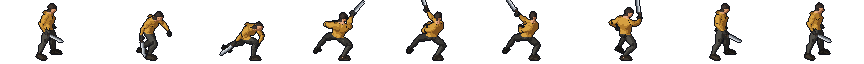
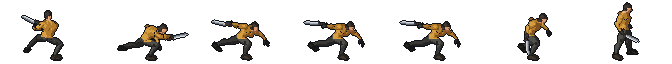
마체테 연타 리듬: 1·2타 빠르게, 3타 크게 올려 베기
- 연타 순서 변경: 1타 가로 베기(B), 2타 내지르기(C 앞부분), 3타 올려 베기(A)
- 1·2타 준비 동작을 잘라 0.32·0.34초, 피해 2 / 3타 0.66초, 피해 6, 밀어내기 320
- 무기 데이터에 heavy 표시 추가: 마무리 타는 공통 타격감 한 단계 위
- 렌더러가 끝을 생략한 프레임 구간(동작@4-)을 받도록
- look.json 맞는 칸 1·1·2로 갱신, 문서·개발일지 기록

diff --git a/src/weapon.py b/src/weapon.py
@@ -11,11 +11,12 @@ from math import cos, hypot, pi
 
 import pico2d
 
-Swing = namedtuple("Swing", "sheet duration contact damage reach depth arc push recover_from")
+Swing = namedtuple("Swing", "sheet duration contact damage reach depth arc push recover_from heavy")
 # sheet: animation sheet (character_look pose); duration and contact in seconds;
 # damage in hit points; reach and depth in px; arc in radians around the facing direction;
 # push: knockback speed in px/s; recover_from: progress where the swing's own recovery
-# starts, so a follow-up swing can cut in there instead of waiting for it.
+# starts, so a follow-up swing can cut in there instead of waiting for it; heavy: a big blow
+# (combo finisher) that lands one feel class harder (hit-stop, shake, number; see hit_feel).
 
 Weapon = namedtuple("Weapon", "name swings combo_window sneak_multiplier")
 # combo_window: seconds after a swing's recovery starts in which a click continues the combo.
@@ -23,9 +24,10 @@ Weapon = namedtuple("Weapon", "name swings combo_window sneak_multiplier")
 MACHETE = Weapon(
     name="마체테",
     swings=(
-        Swing("swing", 0.50, 0.24, 3, 42, 20, pi / 3, 150, 0.62),     # rising cut
-        Swing("swing2", 0.48, 0.20, 3, 44, 20, pi / 3, 150, 0.62),    # backhand sweep
-        Swing("swing3", 0.62, 0.22, 5, 48, 22, pi / 3, 260, 0.75),    # lunging finisher
+        # 1st and 2nd: quick, light blows; 3rd: the big rising cut with a real wind-up.
+        Swing("swing", 0.32, 0.10, 2, 42, 20, pi / 3, 110, 0.65, False),    # quick sweep
+        Swing("swing2", 0.34, 0.10, 2, 44, 20, pi / 3, 110, 0.65, False),   # quick thrust
+        Swing("swing3", 0.66, 0.26, 6, 50, 24, pi / 3, 320, 0.74, True),    # big rising cut
     ),
     combo_window=0.25,
     sneak_multiplier=3,

diff --git a/tools/blender/render_sprites.py b/tools/blender/render_sprites.py
@@ -234,6 +234,8 @@ def setup_render(scene, flat, painted=False, render_pass="color"):
 
 def frames_of(action, count, frame_range=None):
     start, end = frame_range or action.frame_range
+    if end is None:                                      # 'A@4-': from frame 4 to the end
+        end = action.frame_range[1]
     if count <= 1:
         return [int(start)]
     if frame_range is None and action.name.endswith("_Loop"):
@@ -363,7 +365,7 @@ def render_sheet(scene, armature, segments, out_dir, tmp_dir, sheet_name, args):
 
 
 def parse_segment(text):
-    """'Fixing_Kneeling@0-30' -> ('Fixing_Kneeling', (0, 30), None).
+    """'Fixing_Kneeling@0-30' -> ('Fixing_Kneeling', (0, 30), None); 'A@4-' runs to A's end.
     'Walk_Loop+Crouch_Fwd_Loop*0.4' -> ('Walk_Loop', None, ('Crouch_Fwd_Loop', 0.4))."""
     frame_range = None
     blend = None
@@ -374,7 +376,7 @@ def parse_segment(text):
     if "@" in text:
         text, span = text.split("@", 1)
         start, end = span.split("-")
-        frame_range = (float(start), float(end))
+        frame_range = (float(start), float(end) if end else None)
     return text, frame_range, blend
 
 

diff --git a/tools/blender/render_character.py b/tools/blender/render_character.py
@@ -32,9 +32,12 @@ PASSES = [
      ["--shift-for", "down=16"]),
     (LIB2,
      # Machete combo: A, B and C (A and B end with their recovery, used when the combo stops).
-     ["swing=Sword_Regular_A,Sword_Regular_A_Rec@7-23", "swing2=Sword_Regular_B,Sword_Regular_B_Rec",
-      "swing3=Sword_Regular_C"],
-     ["swing=6,3", "swing2=6,3", "swing3=9"],
+     # Machete combo (user order 2026-11-12): 1st a quick sweep (B, wind-up cut off), 2nd a
+     # quick thrust (the front of C, its end as the recovery), 3rd the big rising cut (A from its
+     # crouch on: the standing first frames read as a pause between hits).
+     ["swing=Sword_Regular_B@2-13,Sword_Regular_B_Rec", "swing2=Sword_Regular_C@0-18,Sword_Regular_C@30-48",
+      "swing3=Sword_Regular_A@4-,Sword_Regular_A_Rec@7-23"],
+     ["swing=4,3", "swing2=4,3", "swing3=6,3"],
      []),
 ]
 

diff --git a/src/hit_feel.py b/src/hit_feel.py
@@ -28,14 +28,17 @@ FEELS = {
 }
 
 
-def weight(damage, target_max_hp, critical=False, finishing=False):
-    """Weight class of one hit: critical and finishing blows always land the hardest."""
+def weight(damage, target_max_hp, critical=False, finishing=False, heavy=False):
+    """Weight class of one hit: critical and finishing blows always land the hardest;
+    a heavy blow (a combo finisher, any weapon) lands one class above its damage share."""
     if critical or finishing:
         return CRUSHING
     share = damage / max(1, target_max_hp)
     if share >= HEAVY_SHARE:
-        return HEAVY
-    return MEDIUM if share >= MEDIUM_SHARE else LIGHT
+        base = HEAVY
+    else:
+        base = MEDIUM if share >= MEDIUM_SHARE else LIGHT
+    return min(CRUSHING, base + heavy)
 
 
 def feel(hit_weight):

diff --git a/src/main.py b/src/main.py
@@ -215,7 +215,8 @@ def handle_player_events():
             sneak = player.swing.sneak
             damage = swing.damage * (player.weapon.sneak_multiplier if sneak else 1)
             zombie.hurt(damage, player.swing.dx, swing.push)
-            weight = hit_feel.weight(damage, zombie.max_hp, critical=sneak, finishing=not zombie.alive)
+            weight = hit_feel.weight(damage, zombie.max_hp, critical=sneak, finishing=not zombie.alive,
+                                    heavy=swing.heavy)
             show_impact(position)
             play_hit_feel(weight)
             game_world.add_object(DamageNumber(zombie.x, zombie.y, damage, weight), game_world.EFFECT)

diff --git a/assets/characters/CHARACTER_WORKFLOW.md b/assets/characters/CHARACTER_WORKFLOW.md
@@ -129,7 +129,9 @@
 | idle | `Idle_Loop` | 4 | |
 | walk | `Walk_Loop` | 12 | 2026-11-11 가볍게 뛰기(`Jog_Fwd_Loop`)를 잠깐 썼으나 실제로 약 6m/s 달리기 동작이라 걷기로 되돌림. 1.7m/s에서 원본의 1.7배 속도로 재생. 8→12칸으로 늘려 땅에 닿은 발이 덜 밀림 |
 | sneak | `Walk_Loop` 위에 `Crouch_Idle_Loop`를 30% 얹음(`Walk_Loop+Crouch_Idle_Loop*0.3`) | 12 | 2026-11-11 30%로 조정(처음 40%), 6→12칸. 섞을 때는 COMBINE(회전을 곱해 더함)을 써야 함. 단순 평균(REPLACE)은 다리가 뒤로 뒤집힘 |
-| swing | `Sword_Regular_A` 6칸 + 복귀 `Sword_Regular_A_Rec` 7~23프레임 3칸 (두 번째 팩 UAL2) | 9 | 사용자 결정 "칼 베기 A + 맞는 칸 맞추기 + 복귀"(2026-11-11). 크게 숙였다가 베어 올린 뒤 제자리로 돌아옴. 맞는 칸은 4번째 칸(인덱스 3)이고 `base/look.json`에 적음. 이전 후보 나무 베기는 `TreeChopping_Loop@0-20` |
+| swing (1타) | `Sword_Regular_B@2-13` 4칸 + 복귀 `Sword_Regular_B_Rec` 3칸 (두 번째 팩 UAL2) | 7 | 2026-11-12 연타 리듬 지시: 준비 동작을 잘라 빠른 가로 베기. 맞는 칸 인덱스 1 |
+| swing2 (2타) | `Sword_Regular_C@0-18` 4칸 + `Sword_Regular_C@30-48` 3칸 | 7 | 빠른 내지르기(C의 앞부분, 끝부분을 복귀로). 맞는 칸 인덱스 1 |
+| swing3 (3타) | `Sword_Regular_A@4-` 6칸 + 복귀 `Sword_Regular_A_Rec@7-23` 3칸 | 9 | 크게 숙였다가 베어 올리는 마무리. 처음 서 있는 칸은 타와 타 사이가 멈춘 것처럼 보여 뺌(`@4-`는 4프레임부터 끝까지). 맞는 칸 인덱스 2. 2026-11-11에는 이 동작이 1타(`swing`)였음 |
 | sneak_idle | `Idle_Loop` 위에 `Crouch_Idle_Loop`를 40% 얹음 | 4 | Shift만 누르고 서 있을 때. 시트가 없는 캐릭터는 `sneak` 첫 칸으로 대신함(`character_look.FALLBACK`) |
 | hurt | `Hit_Chest` | 3 | |
 | down | `Death01` | 5 | 마지막 칸 유지 |
@@ -284,3 +286,4 @@
 | 2026-11-12 | 사용자 지시 "가방은 없는 게 좋을 것 같습니다" | `hero_2d.json`에 `"backpack": false`, `paint_clothes.py --no-pack` 추가. 동작 8종을 배낭 없이 다시 그림(`previews/hero_2d_v2.png`, 게임 화면 `hero_2d_v2_ingame.png`) |
 | 2026-11-12 | 사용자 결정 "마체테로 하죠, 우선 해 볼까요?" | 무기 그림을 바꿔 끼우는 `tools/sprites/weapons.py`(마체테: 손잡이·가드·칼등·날을 픽셀로 직접 그림, 방망이: 시안 부품) 추가. `paint_clothes.py --weapon`, 의상 파일 `"weapon": "machete"`. 동작 8종을 마체테로 다시 그림(`previews/hero_machete_ingame.png`). 게임 코드의 방망이 이름(BatSwing, 타격음 등)은 실시간 전투 작업 때 무기 데이터로 바꾼다 |
 | 2026-11-12 | 실시간 전투 "시작" | 마체테 3연타 시트(`swing`=칼 베기 A+복귀, `swing2`=B+복귀, `swing3`=C)를 `render_character.py`에 추가하고 다시 그림. 맞는 칸: swing 3, swing2 2, swing3 1(`look.json`). 게임 화면 `previews/realtime_combo.png` |
+| 2026-11-12 | 사용자 지시 "1, 2타는 빠르게, 3타 때 동작이 크게" → "첫 번째를 마지막으로" | 1타 B(준비 잘라냄), 2타 C 앞부분, 3타 A(숙이기부터 끝까지)로 바꿔 다시 그림. 맞는 칸 1·1·2. 점검: ① 1·2타가 바로 칼을 내밀어 빨라 보임 ② 3타 처음에 서 있는 칸이 있어 멈칫해 보임 → `@4-`로 숙인 자세부터 시작하게 고침 ③ 2타 C 중간에 몸이 비틀리며 칼이 위로 가는 칸이 있으나 0.1초 남짓이라 넘어감. 게임 화면 `previews/combo_pacing_ingame.png` |

diff --git a/docs/DEVLOG.md b/docs/DEVLOG.md
@@ -90,3 +90,4 @@
 - **전투 방식 결정:** 콘텐츠가 적은 2D 게임에서는 BG3식 턴제가 반복적이 될 수 있어 **실시간 근접 전투로 되돌리기로** 했다(1차 발표 기획으로 복귀). 주무기는 방망이 대신 다른 무기를 검토한다.
 - **주무기 마체테:** 무기 추천 기준(세계관, 만들 수 있는 동작, 실시간 손맛, 탐색 쓰임, 1차 발표와의 연결)을 정리하고 마체테로 정했다. 무기 그림을 바꿔 끼우는 구조를 만들고 주인공을 마체테로 다시 그렸다.
 - **실시간 전투 첫 단계:** 공용 무기 데이터와 근접 공격(`weapon.py`), 마체테 3연타(칼 베기 A·B·C 동작을 2D로 그림), 대시 무적 회피, 피폭체의 체력·피해·쓰러짐, 기습 3배, 피해 숫자. 처음엔 기습이 안 들어갔다: 칼이 닿는 순간 판정해서 그 사이 피폭체가 알아챘기 때문 → 휘두르기를 시작한 순간 들키지 않았으면 기습으로 고침. 자동 점검(연타·피격·회피·기습·처치) 통과.
+- **연타 리듬:** 사용자 의견 "1·2타는 빠르게, 3타 때 동작이 크게" + "첫 번째를 마지막으로". 크게 숙였다 올려 베는 동작을 3타로 옮기고 1·2타는 준비 동작을 잘라 빠르게(0.32·0.34초, 피해 2), 3타는 0.66초·피해 6·큰 밀어내기. 마무리 타는 무기 데이터의 `heavy` 표시로 타격감이 한 단계 커진다(공통 규칙). 3타 처음에 서 있는 칸이 멈칫해 보여 숙인 자세부터 시작하게 잘랐다(렌더러가 `동작@4-`처럼 끝을 생략한 구간을 받게 함).

diff --git a/PLAN.md b/PLAN.md
@@ -137,6 +137,8 @@
 
 - **2026-11-12 · 실시간 전투 첫 단계** — "시작." 마체테 3연타, 대시 회피, 피폭체 실시간 행동(예고·할퀴기·쓰러짐), 기습, 피해 숫자를 넣고 턴제 전환은 끈다(코드는 보관).
 
+- **2026-11-12 · 연타 리듬: 1·2타 빠르게, 3타 크게** — "1타, 2타, 3타로 갈수록 동작이 크게 가죠. 1, 2타는 비교적 빠른 속도로 공격이 되고 3타 때 동작이 크게 되는 방향이 좋지 않을까." 이어서 "방금 첫 번째를 마지막으로 순서를 바꿔도 될 것 같음." 크게 숙였다 올려 베는 칼 베기 A를 3타로 옮기고, 1타 가로 베기(B)·2타 내지르기(C 앞부분)는 준비 동작을 잘라 빠르게 했다. 피해 2·2·6, 3타는 타격감 한 단계 위(공통 `heavy` 표시).
+
 ## Gemini와의 작업 분담
 
 - 이미지 후보 생성이나 서로 독립적인 초안 작업은 Gemini API에 맡길 수 있다. 예를 들어 NPC 스프라이트와 아이템 아이콘은 각각 규격을 정해 병렬로 요청한다. 같은 동작의 연속 프레임은 한 시트로 요청해 일관성을 맞춘다.

diff --git a/README.md b/README.md
@@ -31,7 +31,7 @@ python src/main.py
 
 피폭체와는 실시간으로 싸웁니다(2026-11-12 턴제에서 전환, [PRD](PRD.md) v3.0).
 
-- `좌클릭`: 마체테로 벱니다. 휘두르는 중에 다시 누르면 올려 베기 → 가로 베기 → 내지르기 3연타로 이어지고, 마지막이 가장 셉니다(3·3·5).
+- `좌클릭`: 마체테로 벱니다. 휘두르는 중에 다시 누르면 가로 베기 → 내지르기 → 올려 베기 3연타로 이어집니다. 1·2타는 빠르고 가볍고, 3타는 크게 베어 올려 가장 셉니다(2·2·6).
 - 피폭체 머리 위에 `!`가 뜨면 곧 할퀴기가 옵니다. `Space` 대시 중에는 맞지 않으니 그 순간 피하세요. 맞으면 체력이 2 줄고 뒤로 밀립니다.
 - 들키기 전에 가까이 다가가 휘두르면 **기습**으로 3배 피해를 줍니다.
 - 맞힐 때마다 피해 숫자가 뜨고, 피해가 클수록 멈칫하는 시간과 화면 흔들림이 커집니다(모든 공격에 공통).
